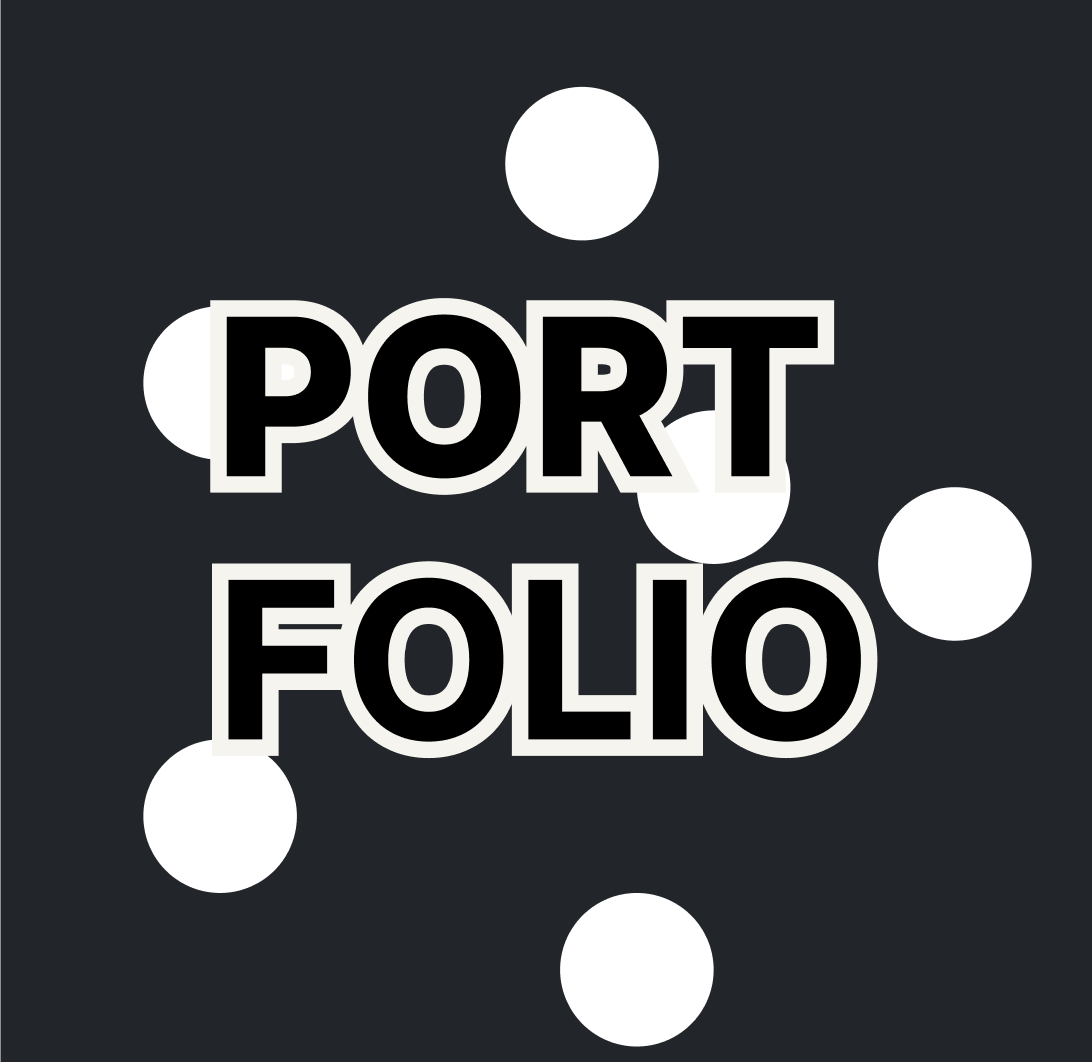
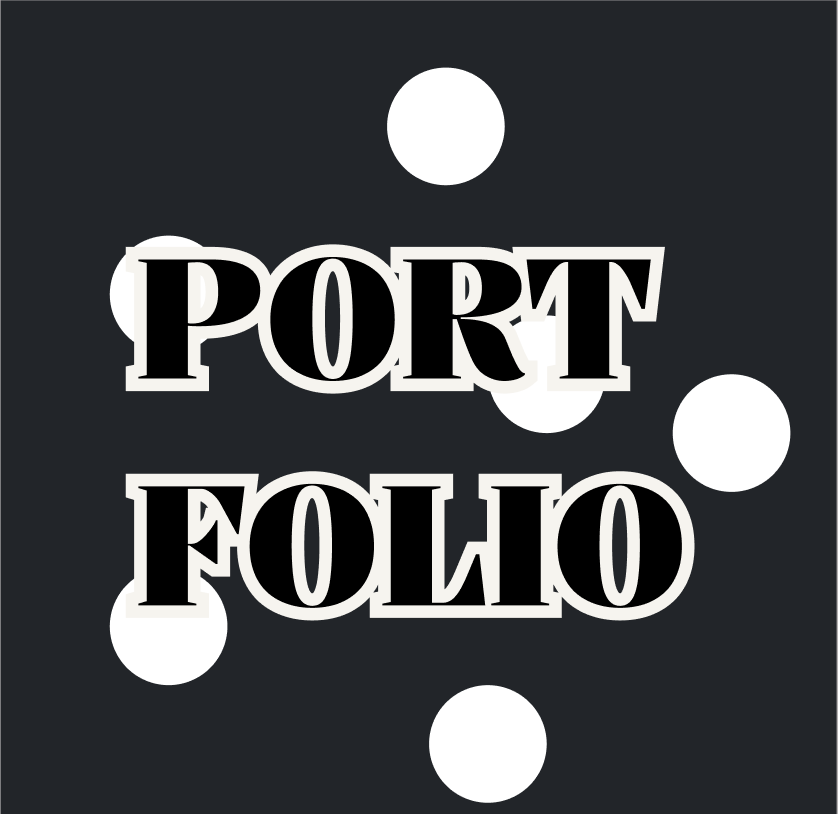
tilføjer font og img til portfolio

diff --git a/css/header.css b/css/header.css
@@ -21,7 +21,6 @@
   font-family: inter;
   font-weight: 700;
   font-size: 24px;
-  color: black;
 }
 .menu a{
   text-decoration: none;
@@ -57,7 +56,6 @@
   } 
   .menu a{
     margin: 0;
-  
   }
 
   header{
@@ -104,4 +102,4 @@
     font-size: 24px;
   }
 
-}  
+}   

diff --git a/css/style.css b/css/style.css
@@ -1,5 +1,10 @@
 
 
+@font-face {
+  font-family: inter;
+  src: url(../font/Inter-kopi/Inter-VariableFont_opsz\,wght.ttf);
+}
+
 
 /********************FOOTER*********************/
 .footer_tekst {

diff --git a/css/mit_arbejde.css b/css/mit_arbejde.css
@@ -91,9 +91,6 @@ text-align: center;
 
 
 
-
-
-
 @media(min-width:800px){
 
   h3{
